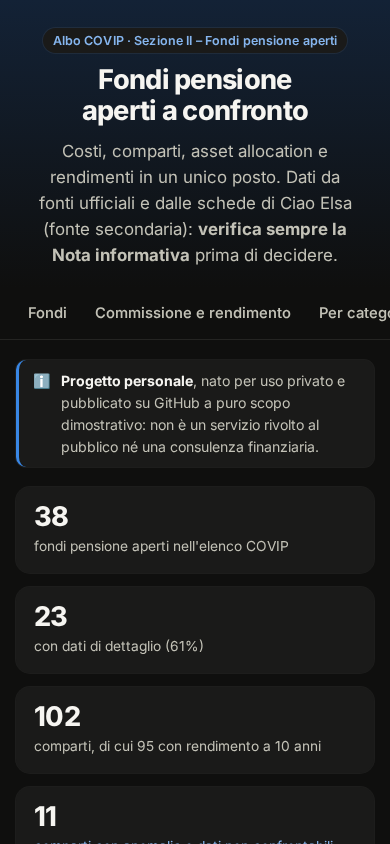
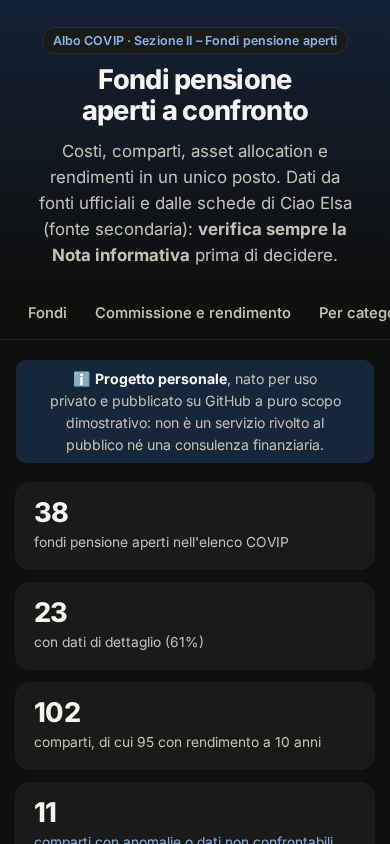
sito: aperture delle sezioni centrate e procedura per le domande
- Titoli di sezione e prima riga di spiegazione centrati; avviso
  "progetto personale" in un riquadro centrato. Tabelle, grafico, card,
  note e filtri restano allineati a sinistra
- Icone ⚠ e ℹ tenute sulla stessa riga del testo
- CLAUDE.md §11: procedura permanente per le domande dell'utente
  (spiegazione in chat e nella piattaforma, ricerca online su fonti
  ammesse, aggiornamento a cascata Excel → export → sito → documentazione,
  citazione delle fonti); §2 e §7.10 aggiornati
- Screenshot rigenerati

diff --git a/docs/style.css b/docs/style.css
@@ -147,13 +147,17 @@ p, li { text-wrap: pretty; }
 
 /* avviso progetto personale */
 .notice {
-  display: flex; gap: 10px; align-items: flex-start; margin: 20px 0 0; padding: 10px 14px;
-  background: var(--surface); border-radius: var(--radius-sm); box-shadow: var(--shadow);
-  border-left: 3px solid var(--accent); color: var(--ink-2); font-size: 0.88rem;
+  display: block;
+  width: fit-content; max-width: 100%; margin: 20px auto 0; padding: 8px 16px;
+  background: var(--accent-soft); border-radius: var(--radius-sm);
+  color: var(--ink-2); font-size: 0.88rem; text-align: center; text-wrap: balance;
 }
 .notice strong { color: var(--ink); }
 
 main section { margin: 52px 0; }
+/* "aperture" delle sezioni centrate (titolo + prima riga di spiegazione); tabelle, grafico, card e note restano a sinistra */
+main section > h2 { text-align: center; }
+main section > h2 + .hint { text-align: center; text-wrap: balance; margin-left: auto; margin-right: auto; max-width: 72ch; margin-bottom: 20px; }
 .hint { color: var(--ink-2); font-size: 0.92rem; max-width: 80ch; margin: 0 0 14px; }
 .alert { background: var(--warn-bg); color: var(--warn-ink); padding: 12px 16px; border-radius: var(--radius-sm); }
 

diff --git a/docs/index.html b/docs/index.html
@@ -37,7 +37,7 @@
   </nav>
 
   <main class="wrap">
-    <p class="notice" role="note"><span aria-hidden="true">ℹ</span><span><strong>Progetto personale</strong>, nato per uso privato e
+    <p class="notice" role="note"><span aria-hidden="true">ℹ&nbsp;</span><span><strong>Progetto personale</strong>, nato per uso privato e
       pubblicato su GitHub a puro scopo dimostrativo: non è un servizio rivolto al pubblico né una consulenza finanziaria.</span></p>
 
     <section aria-label="Riepilogo" class="kpis" id="kpis"></section>
@@ -47,7 +47,7 @@
     <section id="fondi" aria-labelledby="h-fondi">
       <h2 id="h-fondi">Fondi</h2>
       <p class="hint">Clicca sul nome di un fondo per vedere i comparti. Clicca sulle intestazioni per ordinare.
-        ⚠ indica note o anomalie da verificare.</p>
+        ⚠&nbsp;indica note o anomalie da verificare.</p>
       <form class="toolbar" id="filtri" role="search" onsubmit="return false">
         <label class="search">
           <span class="sr-only">Cerca</span>

diff --git a/CLAUDE.md b/CLAUDE.md
@@ -28,6 +28,10 @@ nella UI (virgola decimale, `€` dopo l'importo, es. `25,00 €`, `1,45%`).
   - Guida dettagliata + presentazione interattiva reveal.js 2D sulla GitHub Page, **sempre aggiornate e allineate**
     con il codice e con questo file (§10).
   - Possibilità di provare la GitHub Page in locale prima del push (§10.3).
+- Istruzioni permanenti sull'uso della piattaforma (da ottobre 2026): l'utente usa la dashboard e chiede ciò che non
+  capisce. Per ogni domanda Claude **spiega in chat e rende la spiegazione chiara anche nella piattaforma**; se servono
+  dati nuovi o approfondimenti, **cerca online, arricchisce prima l'Excel e poi a cascata tutto il resto**, citando le
+  fonti senza appesantire la grafica. Procedura nella §11.
 - <!-- TODO: aggiungi qui eventuali altre istruzioni della conversazione originale che non risultano dal file -->
 
 ## 3. Struttura del workbook
@@ -201,7 +205,8 @@ responsive, accessibile, in italiano.
    `docs/data/`, poi tag e release). Dettagli nella §8.
 9. Pagine collegate dal menu: **Guida** (`docs/guida/`) e **Presentazione** (`docs/presentazione/`), vedi §10.
 10. **Stile**: semplice e poco distraente. Font Inter (Google Fonts, fallback di sistema), intestazione con leggera
-   sfumatura, **intestazione e navigazione centrate** (il resto della pagina allineato a sinistra), navigazione fissa a
+   sfumatura, **intestazione, navigazione e "aperture" delle sezioni centrate** (titolo `h2` + prima riga `.hint`,
+   avviso "progetto personale"); tabelle, grafico, card, note e filtri allineati a sinistra, navigazione fissa a
    pillole, card con ombre morbide, filtri a pillola. `text-wrap: balance` sui titoli e `pretty` sui paragrafi, per
    evitare parole isolate a fine riga. Colori come token CSS in
    `docs/style.css` (chiaro/scuro); i colori delle categorie del grafico sono validati e non vanno cambiati a occhio.
@@ -270,7 +275,33 @@ accompagnata **nello stesso commit/PR** da:
 4. aggiornamento di questo `CLAUDE.md` (struttura, schema, versioni, roadmap) e del `README.md`;
 5. test verdi (`python -m unittest discover -s tests`).
 
-## 11. Roadmap / TODO
+## 11. Come gestire le domande dell'utente (procedura permanente)
+1. **Spiegare in chat**, in modo semplice, con esempi presi dai dati del progetto.
+2. **Rendere chiaro anche nella piattaforma** ciò che ha generato il dubbio, nel modo più leggero possibile, in quest'ordine:
+   - testo vicino all'elemento: riga `.hint` sotto il titolo, attributo `title` sulle intestazioni di colonna (vedi
+     `titolo` in `COLONNE` di `app.js`), etichette più parlanti;
+   - voce nel **Glossario** o nella sezione giusta di `docs/guida/GUIDA.md`;
+   - una slide (verticale) nella presentazione, solo se l'argomento è centrale.
+   Niente box, icone o colori nuovi senza motivo: la pagina deve restare semplice e poco distraente (§7.10).
+3. **Se servono dati nuovi o da verificare**, cercarli online solo su fonti ammesse (§2: COVIP, siti/documenti ufficiali
+   dei gestori, Nota informativa, Scheda costi; Ciao Elsa come fonte secondaria) e aggiornare **a cascata**:
+   1. **Excel** (fonte di verità): valore nella cella, fonte come hyperlink o in `Note` nel formato
+      `Fonte: <nome> <URL> (consultata il AAAA-MM-GG)`; incoerenze segnalate, mai corrette in silenzio; formule intatte;
+      nuove colonne o fogli solo se servono, documentati nella §3;
+   2. `scripts/export_xlsx.py` (schema, validazioni, flag), `tests/`, poi `python scripts/export_xlsx.py`;
+   3. dashboard (`docs/`), guida, presentazione, `python scripts/screenshots.py`;
+   4. `CLAUDE.md` (§3 struttura, §4 fonti, §5 problemi noti, roadmap) e `README.md`.
+   Se Claude modifica l'Excel con openpyxl, deve preservare formule, formati e hyperlink. Il salvataggio fuori da Excel
+   svuota la cache delle formule: l'export la ricalcola comunque (§3), ma va chiesto all'utente di aprire e salvare il
+   file in Excel.
+4. **Citare le fonti**: in chat con i link consultati; nella piattaforma solo attraverso i canali esistenti (link
+   *Sito/Scheda*, note del fondo/comparto, sezione *Fonti* alimentata da `meta.json → fonti` nella lista di
+   `export_xlsx.py`). Ogni nuova fonte va aggiunta lì e nella §4.
+5. **Chiudere ogni richiesta** con: export, test verdi, screenshot se è cambiato l'aspetto, controllo della regola di
+   allineamento (§10.4) e **messaggio di commit pronto** (convenzionale, in italiano, con le fonti dei dati).
+   Commit e push li fa l'utente.
+
+## 12. Roadmap / TODO
 - [x] Script `scripts/export_xlsx.py` + `requirements.txt` + test di schema (`tests/test_export.py`)
 - [x] Prima versione della dashboard (tabella, dettaglio, scatter, confronto per categoria, qualità dei dati) + CI `pages.yml`
 - [x] CI su PR, deploy + tag + release al merge, versionamento automatico (minor/patch)
